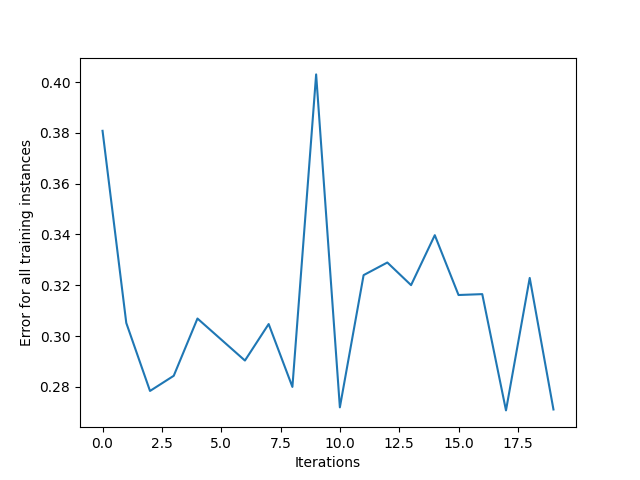
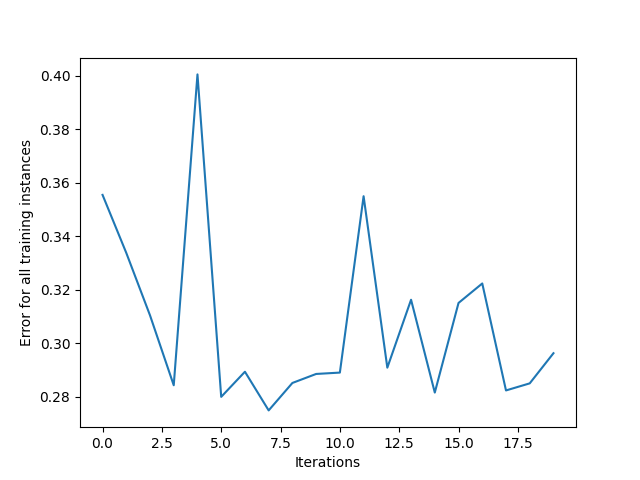
working model + run file

diff --git a/working_model.py b/working_model.py
@@ -1,5 +1,13 @@
 import numpy as np
-import matplotlib.pyplot as plt
+
+'''
+N1--\    node1
+     \  
+       -----SUM--------ACTIVATION--------OUTPUT
+     /    weights       sigmoid
+N2--/      bias
+'''
+
 
 class MyFirstNeuralNetwork:
     ##FOR A SET AMOUNT OF INPUTS##
@@ -16,6 +24,9 @@ class MyFirstNeuralNetwork:
         self.bias = np.random.randn()
         self.learning_rate = learning_rate
         self.nNeuron = number_of_neurons
+        
+    def getWeights(self):
+        return self.weights
 
     def sigmoid(self, x):
         return 1 / (1 + np.exp(-x))
@@ -74,6 +85,7 @@ class MyFirstNeuralNetwork:
 
     def train(self, inputVectors, targets, iterations):
         cumulativeErrors = []
+        qt = iterations/100
         for i in range(iterations):
             randDataIndex = np.random.randint(len(inputVectors))
 
@@ -84,36 +96,8 @@ class MyFirstNeuralNetwork:
             self.updateParameters(derror_dbias, derror_dweights)
 
             # Measure the cumulative error for all the instances, taken every iterations
-            if i % 50 == 0:
+            if i % qt == 0:
                 cumulativeError = self.sampleErrors(inputVectors, targets)
                 cumulativeErrors.append(cumulativeError)
 
         return cumulativeErrors
-
-
-inputVectors = np.array(
-    [
-        [3, 1.5],
-        [2, 1],
-        [4, 1.5],
-        [3, 4],
-        [3.5, 0.5],
-        [2, 0.5],
-        [5.5, 1],
-        [1, 1],
-    ]
- )
-
-targets = np.array([0, 1, 0, 1, 0, 1, 1, 0])
-learning_rate = 0.1
-
-neural_network = MyFirstNeuralNetwork(learning_rate, 1, 2)
-
-trainingError = neural_network.train(inputVectors, targets, 1000)
-
-plt.plot(trainingError)
-plt.xlabel("Iterations")
-plt.ylabel("Error for all training instances")
-plt.savefig("cumulative_error.png")
-
-print(neural_network.predict([2, 1]))
